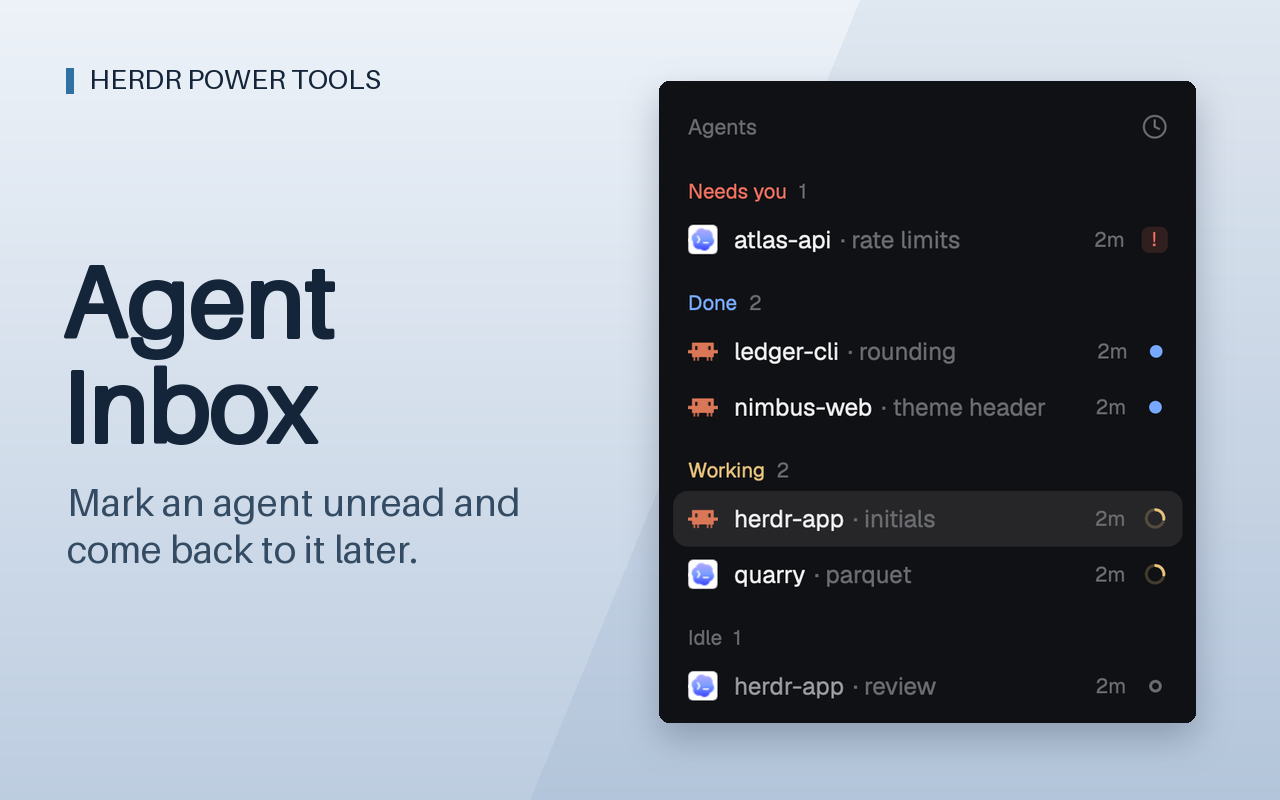
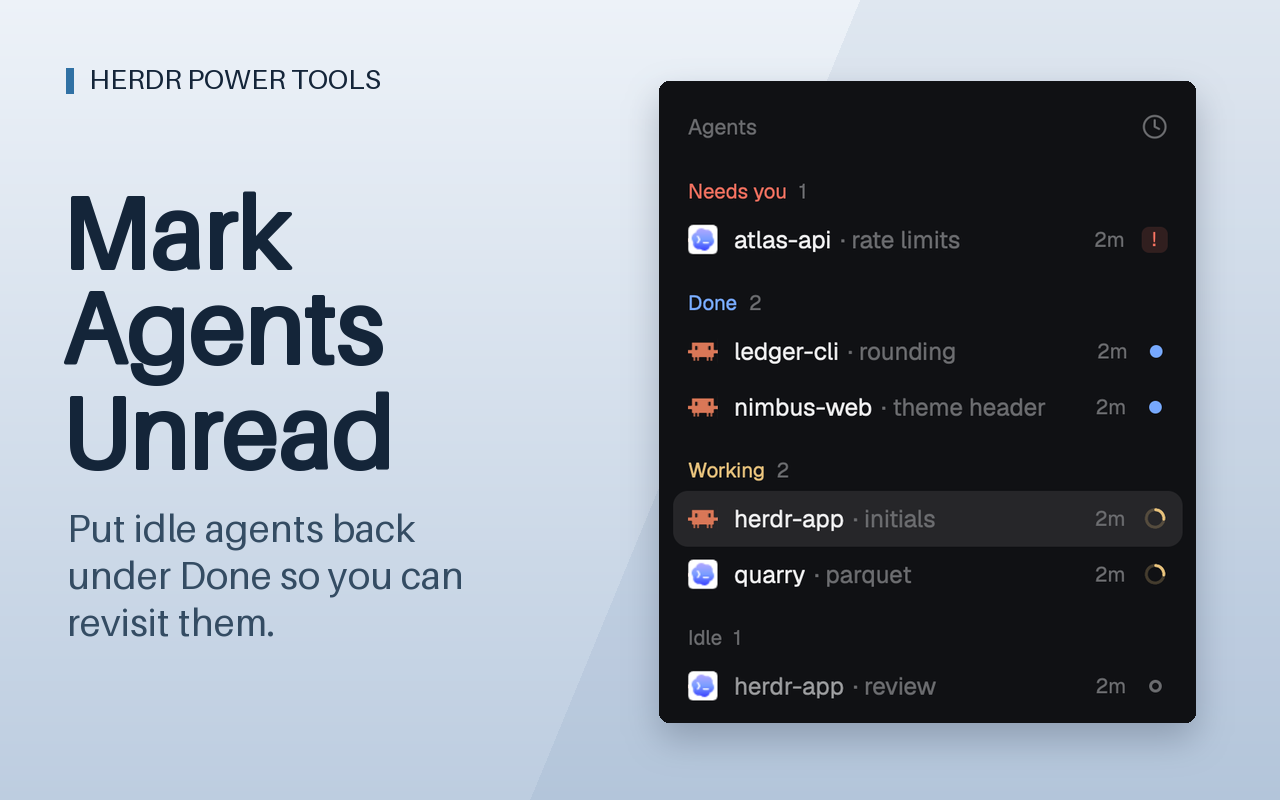
fix(gallery): clarify mod names and refresh previews

Changed region(s): [[0.0312, 0.2188, 0.4062, 0.8125]]

diff --git a/mods/git-graph/main.js b/mods/git-graph/main.js
@@ -847,7 +847,7 @@ export default class GitPanel extends View {
     return v_flex().flex_none().border_b(1).border_color(t.border)
       .child(h_flex().id("git-head").h(42).px(14).gap(6).items_center()
         .on_mouse_down("right", () => this.menu({ kind: "repo", name }))
-        .child(div().font_semibold().child("Git Graph"))
+        .child(div().font_semibold().child("Git Panel"))
         .child(many
           ? h_flex().id("git-repo").flex_shrink(1).min_w(0).h(24).px(6).gap(3).items_center().rounded(6).text_size(11.5).text_color(t.muted).cursor_pointer().tooltip(`${repos.length} repositories here: choose which one to show`)
             .hover((s) => s.bg(t.hover).text_color(t.foreground))

diff --git a/packages/git-graph/mods/git-graph/main.js b/packages/git-graph/mods/git-graph/main.js
@@ -847,7 +847,7 @@ export default class GitPanel extends View {
     return v_flex().flex_none().border_b(1).border_color(t.border)
       .child(h_flex().id("git-head").h(42).px(14).gap(6).items_center()
         .on_mouse_down("right", () => this.menu({ kind: "repo", name }))
-        .child(div().font_semibold().child("Git Graph"))
+        .child(div().font_semibold().child("Git Panel"))
         .child(many
           ? h_flex().id("git-repo").flex_shrink(1).min_w(0).h(24).px(6).gap(3).items_center().rounded(6).text_size(11.5).text_color(t.muted).cursor_pointer().tooltip(`${repos.length} repositories here: choose which one to show`)
             .hover((s) => s.bg(t.hover).text_color(t.foreground))

diff --git a/mods/agent-inbox/main.js b/mods/agent-inbox/main.js
@@ -553,7 +553,7 @@ export default class Agents extends View {
             .flex_none()
             .items_center()
             .justify_between()
-            .child(div().text_size(11.5).font_medium().text_color(t.dim).child("Agent Inbox"))
+            .child(div().text_size(11.5).font_medium().text_color(t.dim).child("Agents"))
             .child(
               div()
                 .id("ag-sort")

diff --git a/packages/agent-inbox/mods/agent-inbox/main.js b/packages/agent-inbox/mods/agent-inbox/main.js
@@ -553,7 +553,7 @@ export default class Agents extends View {
             .flex_none()
             .items_center()
             .justify_between()
-            .child(div().text_size(11.5).font_medium().text_color(t.dim).child("Agent Inbox"))
+            .child(div().text_size(11.5).font_medium().text_color(t.dim).child("Agents"))
             .child(
               div()
                 .id("ag-sort")

diff --git a/README.md b/README.md
@@ -4,7 +4,7 @@ Keep an agent's terminal, the file it is changing, and the Git diff side by side
 
 ![Herdr Power Tools showing a weekly usage forecast, project folders and a Git graph](docs/images/power-tools.webp)
 
-**Agent support.** Agent Usage reads Claude Code and Codex, and the optional Git commit-message writer can use either one. The file editor, search, Git tools and space folders work with ordinary terminals. Agent Inbox works with agents whose status Herdr recognizes.
+**Agent support.** Agent Usage reads Claude Code and Codex, and the optional Git commit-message writer can use either one. The file editor, search, Git tools and space folders work with ordinary terminals. You can mark agents unread when Herdr recognizes their status.
 
 [See the whole window](docs/images/overview.webp) · [Install and update](#install) · [Upgrading an earlier install](#upgrading-an-earlier-install)
 
@@ -18,15 +18,15 @@ Each feature has a page with everything it does: every key, limit and edge case.
 |---|---|---|
 | [Agent Usage](docs/usage.md) | Whether the agents' limits last the week, and where the usage went | `agent-usage` |
 | [Space folders](docs/space-folders.md) | Folders for the Spaces sidebar, with each space's containers and agents | `space-folders` |
-| [Agent Inbox](docs/unread-agents.md) | "Mark as unread" for the Agents list | `agent-inbox` |
-| [Git Graph](docs/git-panel.md) | The history as a graph, and everyday git by click | `git-graph` |
+| [Mark Agents Unread](docs/unread-agents.md) | Flag idle agents to come back to later | `agent-inbox` |
+| [Git Panel](docs/git-panel.md) | Commit history, refs, branch review and everyday Git actions | `git-graph` |
 | [Git diff](docs/git-diff.md) | A diff pane, side by side, with the changed words marked | `git-diff` |
 | [File editor](docs/file-editor.md) | A text editor in a pane, also from a path Cmd-clicked in a terminal | `file-editor`, `editor-links` |
 | [Project search](docs/project-search.md) | Search and replace in every file of the project | `project-search` |
 | [Back and forward](docs/back-forward.md) | Return to the tab and pane you left | `back-forward` |
 | [Quick Actions](docs/quick-actions.md) | Run saved commands for the current project | `quick-actions` |
 | [Go to file](docs/go-to-file.md) | Any file of the project, by some of its name | `go-to-file` |
-| [File actions](docs/file-actions.md) | The Files panel with icons, a right-click menu, drag to move and undo | `files-actions` |
+| [File Explorer](docs/file-actions.md) | The Files panel with icons, change marks, drag and drop and search shortcuts | `files-actions` |
 | [Hide names](docs/hide-names.md) | Made-up names around the content, for a screenshot or a screen share | `tabs-names`, `pane-names`, `status-names` |
 
 Also here: `layouts/main-folders.json`, Herdr's default layout showing all of the above, with the panes you're not in faded and the dividers lit on hover; `keys.json` and `settings.json`, my key bindings and settings; notes for coding agents working in this folder (`AGENTS.override.md`, `CLAUDE.md`, `docs/agents/`); and the scripts that take the pictures on this page ([`docs/screenshots/`](docs/screenshots/README.md)).
@@ -57,7 +57,7 @@ Also here: `layouts/main-folders.json`, Herdr's default layout showing all of th
 
 [Everything about space folders](docs/space-folders.md)
 
-### Agent Inbox
+### Mark Agents Unread
 
 **Mark an agent as unread.** Click the ring on an idle agent's row and it goes back under Done, until you come back to it or it starts working again.
 
@@ -65,7 +65,7 @@ Also here: `layouts/main-folders.json`, Herdr's default layout showing all of th
 
 <kbd>Cmd</kbd>+<kbd>Alt</kbd>+<kbd>1</kbd> to <kbd>9</kbd> jump to the first nine agents, in the order drawn. [Everything about unread agents](docs/unread-agents.md)
 
-### Git Graph
+### Git Panel
 
 **The repository you are in, as a graph.** Every branch as lines of commits with what is not committed on top, and a second view of branches, remotes, tags and stashes.
 
@@ -120,7 +120,7 @@ Also here: `layouts/main-folders.json`, Herdr's default layout showing all of th
 
 [Everything about go to file](docs/go-to-file.md)
 
-### File actions
+### File Explorer
 
 **The Files panel, as a file manager.** Right-click for new, rename, duplicate, copy, paste and Trash, drag to move, and <kbd>Cmd</kbd>+<kbd>Z</kbd> takes back the last move, rename or Trash.
 
@@ -129,8 +129,9 @@ Also here: `layouts/main-folders.json`, Herdr's default layout showing all of th
 - **At a glance:** each type's icon, a dot on folders with changes inside, and the file in the editor highlighted.
 - **To a terminal:** drag a file onto a terminal to paste its path, a quick way to hand it to an agent.
 - **In and out:** drop files in from Finder, or open one in VS Code, Obsidian or Finder.
+- **Search:** the header opens Project Search, and the folder menu can narrow it to that folder.
 
-[Everything about file actions](docs/file-actions.md)
+[Everything about File Explorer](docs/file-actions.md)
 
 ### Hide names
 

diff --git a/RECIPE.md b/RECIPE.md
@@ -6,14 +6,14 @@ Keep your agents, their code and the change you are reviewing in one Herdr windo
 
 ## What you see
 
-Start with a 268 px left sidebar. Under the window chrome put a 62 px usage widget, then spaces grouped into folders and an agent inbox. Keep the 42 px tab bar above the work area. Terminal and mod panes have a 30 px header, an 8 px gap and a softer background when inactive. A resizable 368 px panel on the right switches among Files, Git and Search. A 28 px status bar runs under the work area.
+Start with a 268 px left sidebar. Under the window chrome put a 62 px usage widget, then spaces grouped into folders and the Agents list. Keep the 42 px tab bar above the work area. Terminal and mod panes have a 30 px header, an 8 px gap and a softer background when inactive. A resizable 368 px panel on the right switches among Files, Git and Search. A 28 px status bar runs under the work area.
 
 ## How it behaves
 
 - File spaces into a folder, fold it, or start and stop its project's containers. Mark an idle agent unread to revisit it later. Blocked, done, working and idle agents retain their distinct indicators and keyboard order.
 - Click the usage widget for weekly projections and project costs. Agent Usage and the optional commit-message writer support Claude Code and Codex. File editing, project navigation, Git and the sidebar work with ordinary terminals and Herdr's other agents.
 - Cmd-click a source path or use Cmd+O to open a file. Cmd+Shift+F searches across the project. The editor keeps unsaved drafts and asks before saving over a change. Replacements offer an undo step.
-- Open Changes for Git Graph. Select a commit, stash or working-tree file to read its diff. Review an entire branch from its common ancestor, mark a revision reviewed and copy line notes. The next review can start at that revision. Go to a checked-out branch’s open space or inspect a failed CI step from the panel. Stage and commit in the panel. Cmd+Shift+H disguises names around the content for screen sharing.
+- Open the Git Panel from the Changes button. Select a commit, stash or working-tree file to read its diff. Review an entire branch from its common ancestor, mark a revision reviewed and copy line notes. The next review can start at that revision. Go to a checked-out branch’s open space or inspect a failed CI step from the panel. Stage and commit in the panel. Cmd+Shift+H disguises names around the content for screen sharing.
 
 ## Built from
 

diff --git a/packages/git-diff/RECIPE.md b/packages/git-diff/RECIPE.md
@@ -10,13 +10,13 @@ Put a file list on the left and the patch on the right in the terminal's font si
 
 ## How it behaves
 
-Click a file in **Git Graph** to open or reuse the current tab's diff pane. J and K move through files, V marks viewed, S changes columns, and W expands the unchanged lines between hunks. O opens the current file in **File Editor**. Remember review progress across restarts and clear a working-tree tick when that file changes again.
+Click a file in the **Git Panel** to open or reuse the current tab's diff pane. J and K move through files, V marks viewed, S changes columns, and W expands the unchanged lines between hunks. O opens the current file in **File Editor**. Remember review progress across restarts and clear a working-tree tick when that file changes again.
 
 A branch review compares the common ancestor of a chosen base with the branch tip. Mark the displayed revision reviewed to open only follow-up commits on the next visit. Keep the whole-branch view available, preserve still-identical file ticks, and show the whole comparison with an explanation after a history rewrite. Click a changed line for a saved note. Show its original revision and excerpt, retain outdated notes, and copy the selected, verified notes as a single message.
 
 ## Built from
 
-Install `mods/git-diff/` alongside the **Git Graph** package, which opens this view. The editor shortcut also needs **File Editor**. The panel sends `git-diff.open` with the tab, repository, machine, source, path and group. Reuse a `git-diff` pane with matching tab props or split one beside the terminal. Run Git on the source machine, parse patch rows once per read and draw them in a virtual list.
+Install `mods/git-diff/` alongside the **Git Panel** package, which opens this view. The editor shortcut also needs **File Editor**. The panel sends `git-diff.open` with the tab, repository, machine, source, path and group. Reuse a `git-diff` pane with matching tab props or split one beside the terminal. Run Git on the source machine, parse patch rows once per read and draw them in a virtual list.
 
 ## Watch out
 

diff --git a/packages/hide-names/RECIPE.md b/packages/hide-names/RECIPE.md
@@ -14,7 +14,7 @@ Cmd+Shift+H or the palette's Hide Names / Show Names toggles the window. Draw ea
 
 ## Built from
 
-Install `tabs-names`, `pane-names` and `status-names` from the package's `mods/` folder and merge its key. In a personal layout set the tab bar's mod to `tabs-names`, the active tab's pane header to `pane-names`, and the status block to `status-names`. Turn `names.hidden` on or off through the shown status mod. Each mod computes aliases from the input and its kind. **Space Folders**, **Agent Inbox** and **Agent Usage** also read the flag.
+Install `tabs-names`, `pane-names` and `status-names` from the package's `mods/` folder and merge its key. In a personal layout set the tab bar's mod to `tabs-names`, the active tab's pane header to `pane-names`, and the status block to `status-names`. Turn `names.hidden` on or off through the shown status mod. Each mod computes aliases from the input and its kind. **Space Folders**, **Mark Agents Unread** and **Agent Usage** also read the flag.
 
 ## Watch out
 

diff --git a/docs/agents/files-actions.md b/docs/agents/files-actions.md
@@ -2,6 +2,8 @@
 
 Notes for agents on the mod in `mods/files-actions/`. The index and what holds for every mod are in `AGENTS.override.md`.
 
+The gallery calls this mod File Explorer, and the panel heading is Files.
+
 A clone of Herdr's `files` panel (from version 0.1.18), without its preview (a click on a file opens it in `file-editor`), with file type icons, a dot on folders with git changes inside, a right-click menu (open in VS Code, Obsidian or TextEdit, reveal in Finder, new file and new folder, rename, duplicate, copy and paste through the clipboard, move to the Trash), drag to move or to paste a path in a terminal, files dropped from Finder, and undo.
 
 ## What is where

diff --git a/docs/agents/agents-unread.md b/docs/agents/agents-unread.md
@@ -2,7 +2,7 @@
 
 Notes for agents on the mod in `mods/agent-inbox/`. The index and what holds for every mod are in `AGENTS.override.md`.
 
-A clone of Herdr's `agents` list (from version 0.1.18) where an idle agent can be marked unread. A marked agent is drawn as done: the done dot, and the Done section in the priority view.
+The gallery calls this mod Mark Agents Unread, and the sidebar heading is Agents. It is a clone of Herdr's `agents` list (from version 0.1.18) where an idle agent can be marked unread. A marked agent is drawn with the done dot and appears in the Done section in the priority view.
 
 ## What is where
 

diff --git a/docs/agents/git-panel.md b/docs/agents/git-panel.md
@@ -2,7 +2,7 @@
 
 Notes for agents on the mod in `mods/git-graph/`. The index and what holds for every mod are in `AGENTS.override.md`.
 
-The Git panel, in the place of Herdr's `changes`. It is not a clone. The history as a graph, branches, remotes, tags and stashes, what is not committed, and the everyday actions on them.
+The Git Panel replaces Herdr's `changes` view. Its gallery title and panel heading both read Git Panel. It shows commit history as a graph, branches, remotes, tags, stashes and uncommitted changes, with actions for day-to-day Git work.
 
 ## What is where
 

diff --git a/packages/file-actions/RECIPE.md b/packages/file-actions/RECIPE.md
@@ -1,6 +1,6 @@
-# File Actions
+# File Explorer
 
-Manage project files from Herdr's Files panel. Drag a file to move it, drop it on a terminal to paste its path, or use the right-click menu to create, rename, duplicate and trash files.
+Browse project files with file-type icons and Git change indicators. Open a file in the editor, start a project search, or manage files with drag and drop and the right-click menu.
 
 ![The file tree and a file's action menu](preview.png)
 
